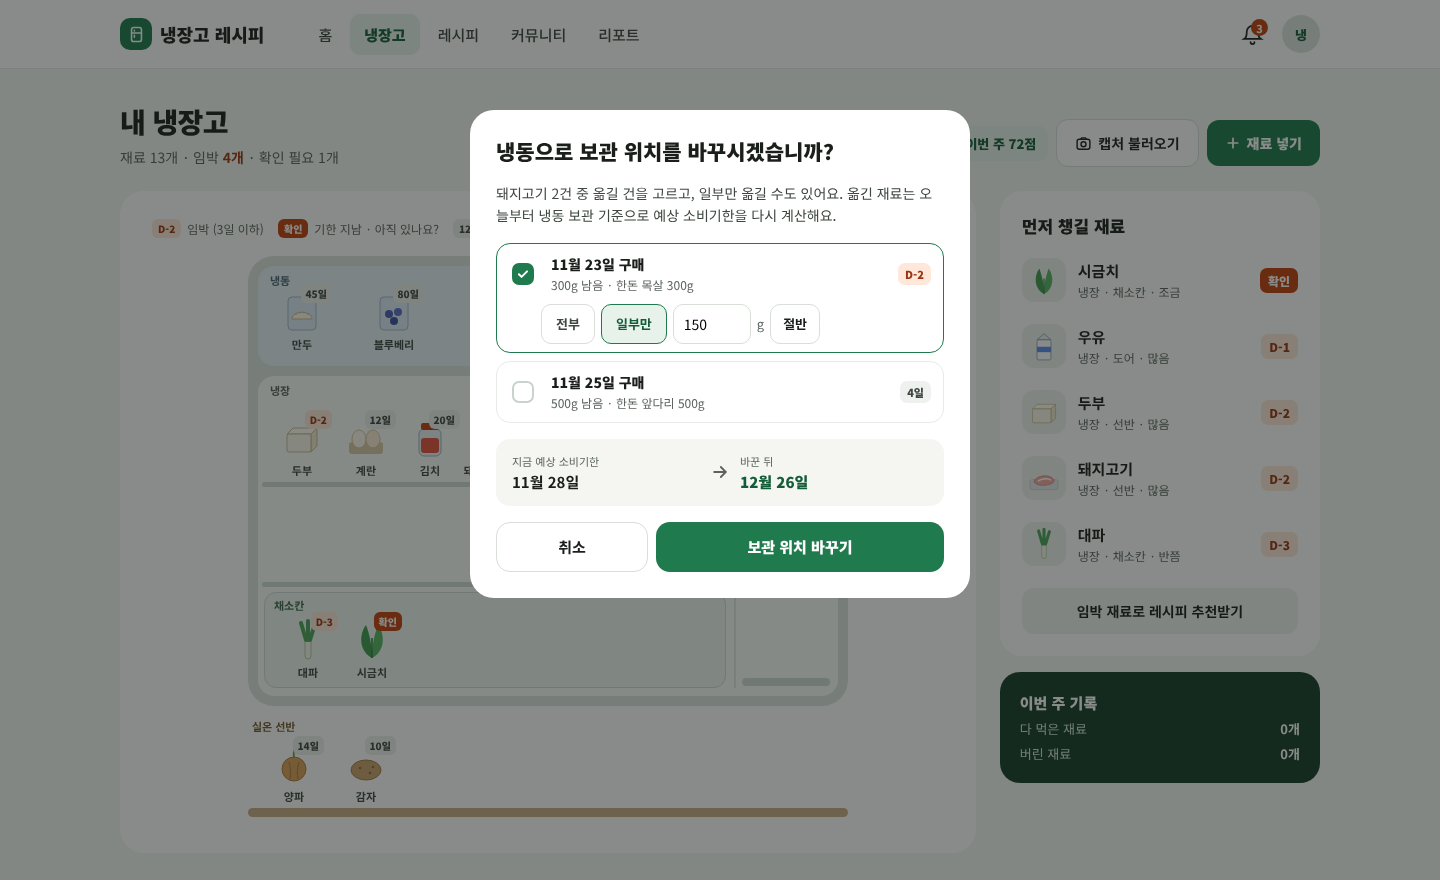
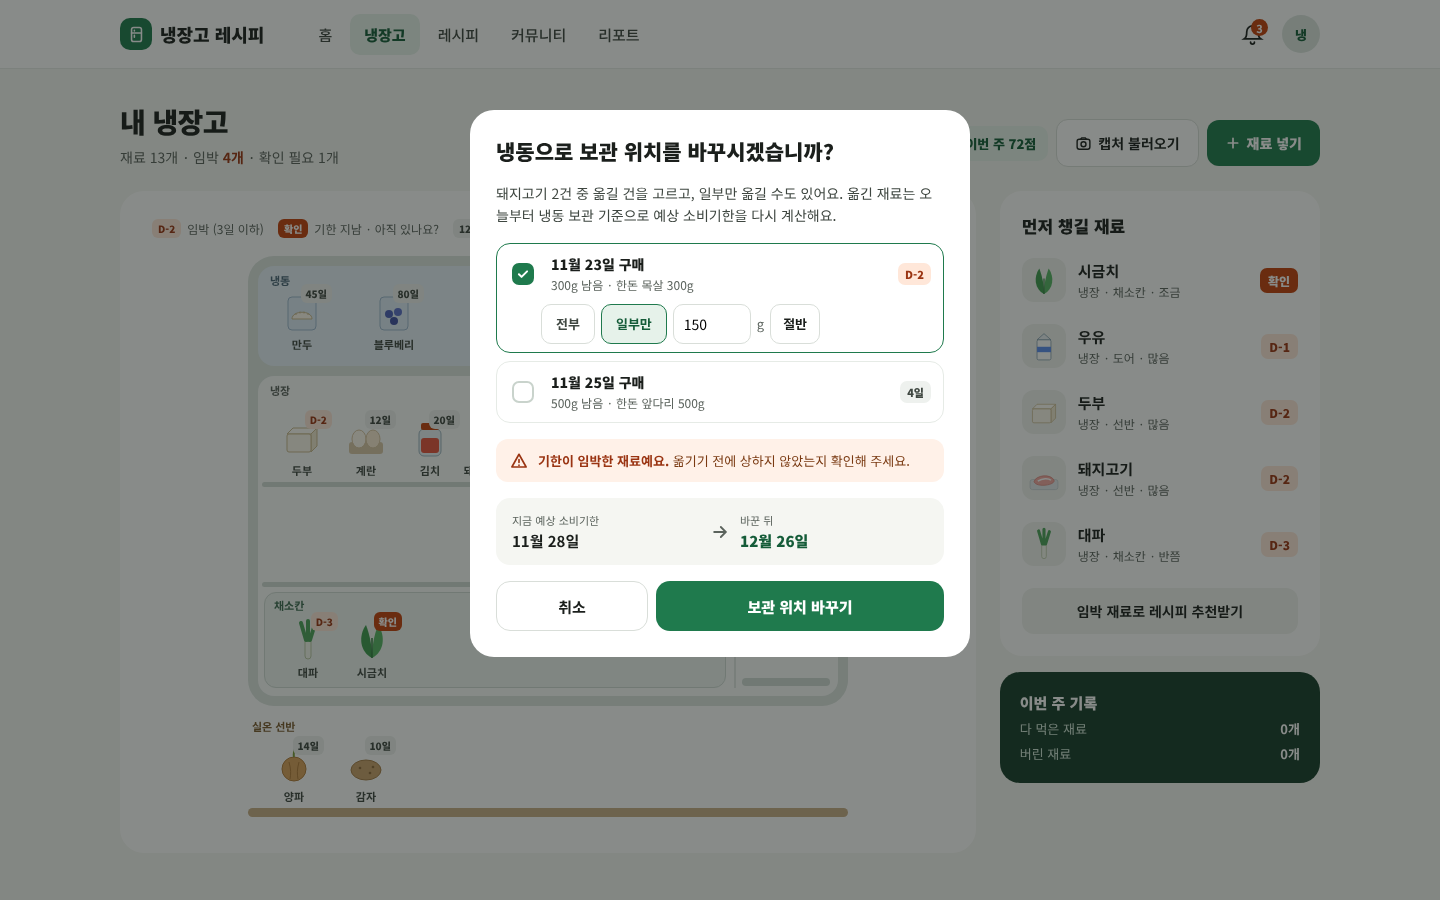
docs: API 명세 추가 및 전체 문서 정합성 맞춤
- API 명세 작성: 공통 규칙(DRF 토큰, 에러 형식, 페이지, 형식, 이미지 업로드), P0 요청·응답, P1 경로·필드
- 기능 명세서: 비회원 체험(REC-07), 냉장고 드래그(INV-09), 재고 일괄 추가·소분·남은 양 늘리기, 보관 위치 변경 시 소비기한 규칙·임박 경고
- 데이터 명세서: 확정 범위 안내, ingredient_group.icon·is_featured, inventory_item.parent_item_id, split 이벤트, 선호 요리 종류 값 변경
- 서비스 기획서: 데스크톱 우선, 비회원 체험, 폴링 주기 30초로 통일
- 화면 설계·README: 가입 직후 재료 넣기 화면 추가(22개), 와이어프레임 이미지 추가·갱신

diff --git a/docs/Feature_Specification.md b/docs/Feature_Specification.md
@@ -36,9 +36,9 @@ API 명세와 화면 설계는 본 문서의 기능 ID를 기준으로 작성합
 - **공통 규칙**
   - 로그인이 필요한 기능은 토큰이 없거나 유효하지 않으면 401을 반환하고 로그인 화면으로 이동
   - **비회원 허용 기능**: 아래 기능만 로그인 없이 사용할 수 있으며, 나머지는 모두 로그인 필요
-    - REC-07 비회원 재료로 레시피 보기 (재료 선택, 레시피 결과)
+    - REC-07 비회원 재료로 레시피 보기 (재료 그룹 목록·검색, 레시피 결과)
     - REC-03 레시피 상세 (열람만, 요리 완료는 가입 후)
-    - AUTH-01 회원가입, AUTH-02 로그인
+    - AUTH-01 회원가입 (중복 확인, 시·군·구 목록 포함), AUTH-02 로그인
   - 비회원 기능은 LLM을 호출하지 않음 (키워드 매칭만 사용해 비용이 들지 않게 함)
   - 다른 사용자의 재고·캡처·추천 기록에는 접근할 수 없음 (본인 데이터만 조회·수정, 위반 시 404)
   - 날짜·주·시간대는 모두 한국 시간(Asia/Seoul) 기준이며, 한 주는 월요일 00:00 ~ 일요일 23:59
@@ -234,11 +234,16 @@ API 명세와 화면 설계는 본 문서의 기능 ID를 기준으로 작성합
 
 - **설명**: 재고 한 건의 정보를 보고 보관 상태와 수량을 수정한다. (냉장고 화면의 상세 패널)
 - **기능**
-  - 보관 위치 변경 ("옮기기"): 예상 소비기한 = 변경일 + 새 보관 위치 일수 (storage_changed)
+  - 보관 위치 변경 ("옮기기"): 예상 소비기한을 다시 계산 (storage_changed)
+    - 냉동으로 옮기면: 변경일 + 냉동 일수 (기한이 늘어날 수 있음)
+    - 그 외(냉동 → 냉장, 냉장 → 실온 등): MIN(현재 예상 소비기한, 변경일 + 새 보관 위치 일수) (기한이 늘어나지 않음)
+    - 기한이 지난 재료는 냉동으로 옮길 수 없음 ("기한이 지난 재료는 냉동할 수 없어요")
+    - 임박 재료(남은 일수 3일 이하)를 옮길 때는 확인 창에 "기한이 임박한 재료예요. 옮기기 전에 상하지 않았는지 확인해 주세요" 경고 표시
+    - 소비기한을 직접 수정한 재료(manual)는 날짜를 바꾸지 않음
     - 구매 건을 통째로 옮기기 (P0)
     - 일부 수량만 옮기기 = 소분 (P1): 예) 돼지고기 500g 중 200g만 냉동
       - 원래 건의 수량·구매 가격을 줄이고, 옮긴 만큼 새 재고를 만듦 (새 건 가격 = 원래 가격 × 옮긴 수량 / 원래 처음 수량, 두 건의 가격 합은 원래 가격과 같음)
-      - 새 건은 구매일이 같고 소비기한만 새로 계산, 어느 건에서 나왔는지 기록 (split 이벤트)
+      - 새 건은 구매일이 같고 소비기한만 위 규칙으로 새로 계산, 어느 건에서 나왔는지 기록 (split 이벤트)
       - 다시 같은 칸으로 옮겨도 두 건을 합치지 않음 (화면에서는 같은 재료로 묶여 보임)
       - presence 재료는 통째로만 옮길 수 있음
   - 개봉 처리: 예상 소비기한 = MIN(현재 값, 개봉일 + opened_days) (opened)
@@ -286,7 +291,8 @@ API 명세와 화면 설계는 본 문서의 기능 ID를 기준으로 작성합
 
 - **설명**: 냉장고 그림에서 재료를 끌어 다른 칸에 놓는다. 보관 위치가 바뀌는 이동만 저장한다.
 - **보관 위치가 바뀌는 이동** (냉장 ↔ 냉동 ↔ 실온)
-  - 놓는 순간 확인 창: "냉동으로 보관 위치를 바꾸시겠습니까? 예상 소비기한이 11/30 → 12/28로 바뀌어요"
+  - 놓는 순간 확인 창: "냉동으로 보관 위치를 바꾸시겠습니까? 예상 소비기한이 11/30 → 12/28로 바뀌어요" (계산은 INV-05의 보관 위치 변경 규칙)
+  - 임박 재료가 포함되면 확인 창에 상하지 않았는지 확인하라는 경고 표시, 기한이 지난 건은 냉동칸으로 옮길 수 없음 (목록에서 선택 불가)
   - 묶인 재료(구매 건이 여러 개)를 끌면 확인 창에 구매 건 목록을 보여주고 소비기한이 빠른 건을 기본 체크, 옮길 건을 고를 수 있음
   - 건마다 "전부 / 일부"를 고르고, 일부면 수량 입력 (개수 재료는 개수, 양 재료는 g·ml 또는 "절반" 버튼) → INV-05의 소분 규칙 적용
   - 확인: INV-05의 보관 위치 변경과 같은 처리 (storage 변경, 예상 소비기한 재계산, storage_changed·split 이벤트)
@@ -459,6 +465,7 @@ API 명세와 화면 설계는 본 문서의 기능 ID를 기준으로 작성합
 
 - **설명**: 홈 화면에 이번 주 점수 게이지와 요일별 변화를 보여준다.
 - **출력**: 현재 점수(게이지는 0~100으로 표시, 100 초과 시 "만점 달성"), 요일별 누적 점수 그래프, 최근 점수 이벤트 5개(사유·점수)
+- **처리 규칙 (점수 없음)**: 그 주 점수 이벤트가 아직 없으면 기본 점수 50점으로 표시 (주간 점수 행은 첫 이벤트 때 생성)
 - **처리 규칙**: 점수 이벤트 전체 목록은 마이페이지의 "점수 내역"에서 확인
 
 ### SCR-03 뱃지 `P1`

diff --git a/docs/Data_Specification.md b/docs/Data_Specification.md
@@ -584,7 +584,10 @@ Indexes:
 
 소비기한 산정 규칙:
 	- 등록 시: purchase_date + 보관 위치별 일수 (ingredient.fridge_days 등)
-	- 보관 위치 변경 시: 변경일 + 새 보관 위치 일수 (소분한 새 건도 같은 규칙)
+	- 보관 위치 변경 시 (소분한 새 건도 같은 규칙):
+		· 냉동으로 옮기면 변경일 + freezer_days
+		· 그 외에는 MIN(현재 예상 소비기한, 변경일 + 새 보관 위치 일수) (보관 위치를 바꿔서 기한이 늘어나지 않도록)
+		· 예상 소비기한이 지난 재고는 냉동으로 옮길 수 없음
 	- 개봉 시: MIN(현재 예상 소비기한, 개봉일 + opened_days)
 	- 사용자가 직접 날짜를 수정하면 expiry_source = manual로 표시하고 자동 재계산 대상에서 제외
 	- 임박 기준: 예상 소비기한까지 남은 일수가 3일 이하 (점수 규칙의 조건 값과 동일하게 관리)
